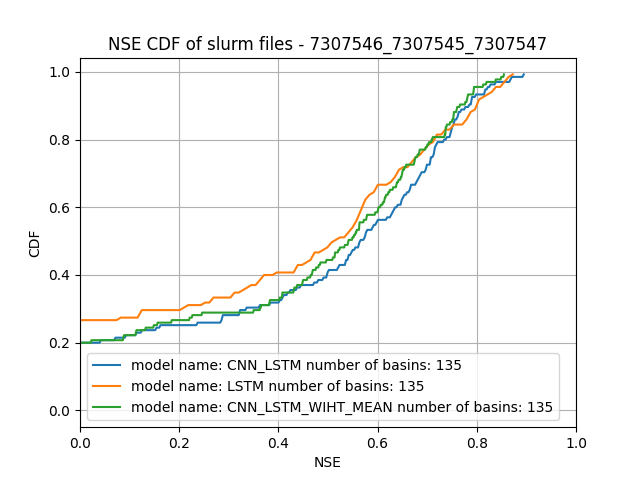
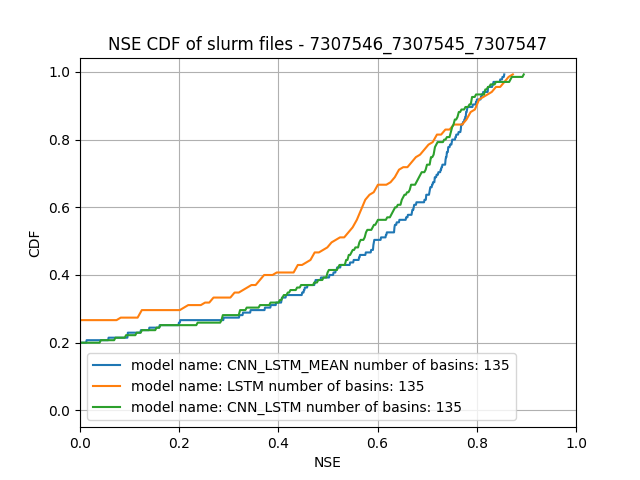
changing again images generation in CAMELS to check if the SR works

diff --git a/src/CAMELS_dataset.py b/src/CAMELS_dataset.py
@@ -408,10 +408,13 @@ class Dataset_CAMELS(FloodML_Base_Dataset):
                     X_data_spatial = self.crop_or_pad_precip_spatial(X_data_spatial, self.max_dim // 4,
                                                                      self.max_dim // 4)
                     for i in range(X_data_spatial.shape[0]):
-                        X_data_spatial_single_day = cv2.cvtColor(X_data_spatial[i, :, :].squeeze(), cv2.COLOR_GRAY2RGB)
-                        X_data_spatial_single_day_after_sr = sr.upsample(X_data_spatial_single_day)
-                        X_data_spatial_single_day = cv2.cvtColor(X_data_spatial_single_day_after_sr, cv2.COLOR_RGB2GRAY)
-                        X_data_spatial_list.append(X_data_spatial_single_day[None, :, :])
+                        X_data_spatial_list.append(
+                            np.expand_dims(cv2.resize(X_data_spatial[i, :, :].squeeze(), (self.max_dim, self.max_dim),
+                                                      interpolation=cv2.INTER_CUBIC), axis=0))
+                        # X_data_spatial_single_day = cv2.cvtColor(X_data_spatial[i, :, :].squeeze(), cv2.COLOR_GRAY2RGB)
+                        # X_data_spatial_single_day_after_sr = sr.upsample(X_data_spatial_single_day)
+                        # X_data_spatial_single_day = cv2.cvtColor(X_data_spatial_single_day_after_sr, cv2.COLOR_RGB2GRAY)
+                        # X_data_spatial_list.append(X_data_spatial_single_day[None, :, :])
                     X_data_spatial = np.concatenate(X_data_spatial_list)
                     gray_image = X_data_spatial.reshape(X_data_spatial.shape[0], (self.max_dim // 4) * 4,
                                                         (self.max_dim // 4) * 4).sum(axis=0)

diff --git a/src/create_CDF_NSE_comparison_plot_from_slurm_output.py b/src/create_CDF_NSE_comparison_plot_from_slurm_output.py
@@ -93,7 +93,7 @@ def create_dict_basin_id_to_NSE_my_code(logs_filename):
 
 
 def plot_NSE_CDF_graphs_my_code():
-    input_file_names = ["slurm-7307546.out", "slurm-7307545.out", "slurm-7307547.out"]
+    input_file_names = ["slurm-7307546.out", "slurm-7307547.out"]
     input_file_paths = [Path(file_name).resolve() for file_name in input_file_names]
     dict_all_files = {}
     for input_file_path in input_file_paths:
